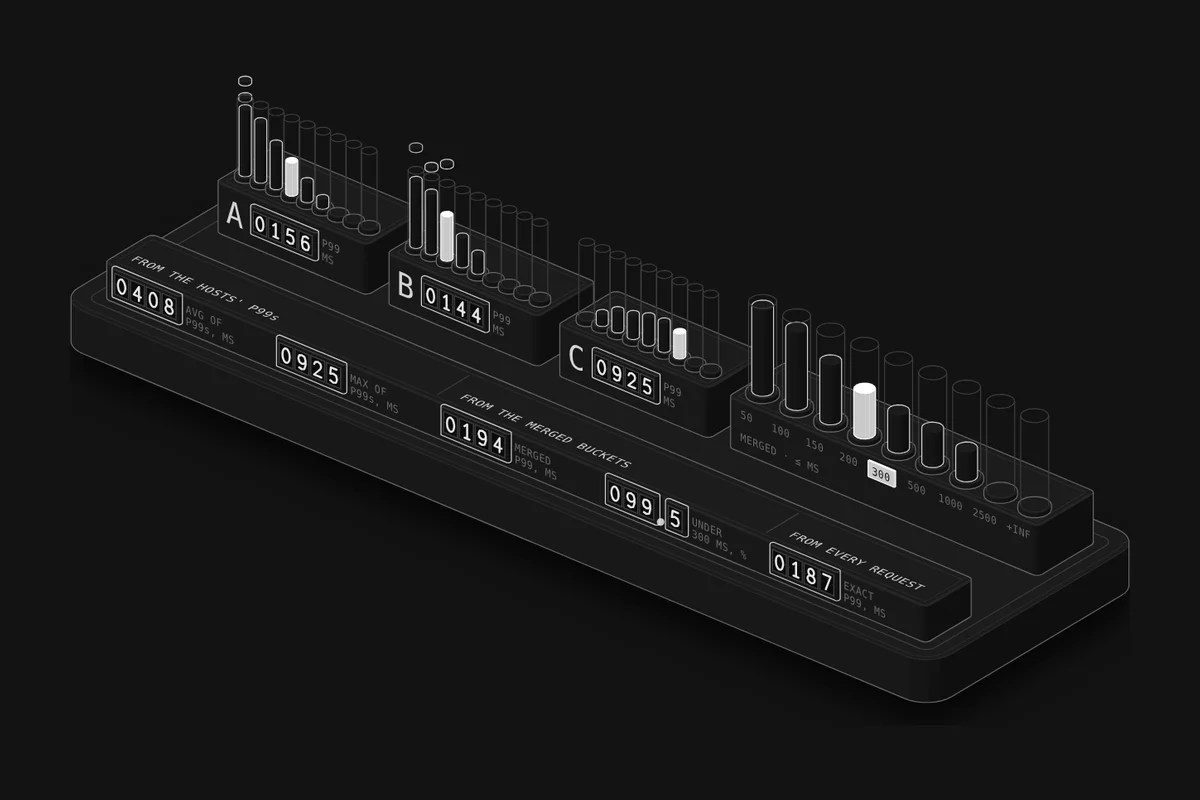
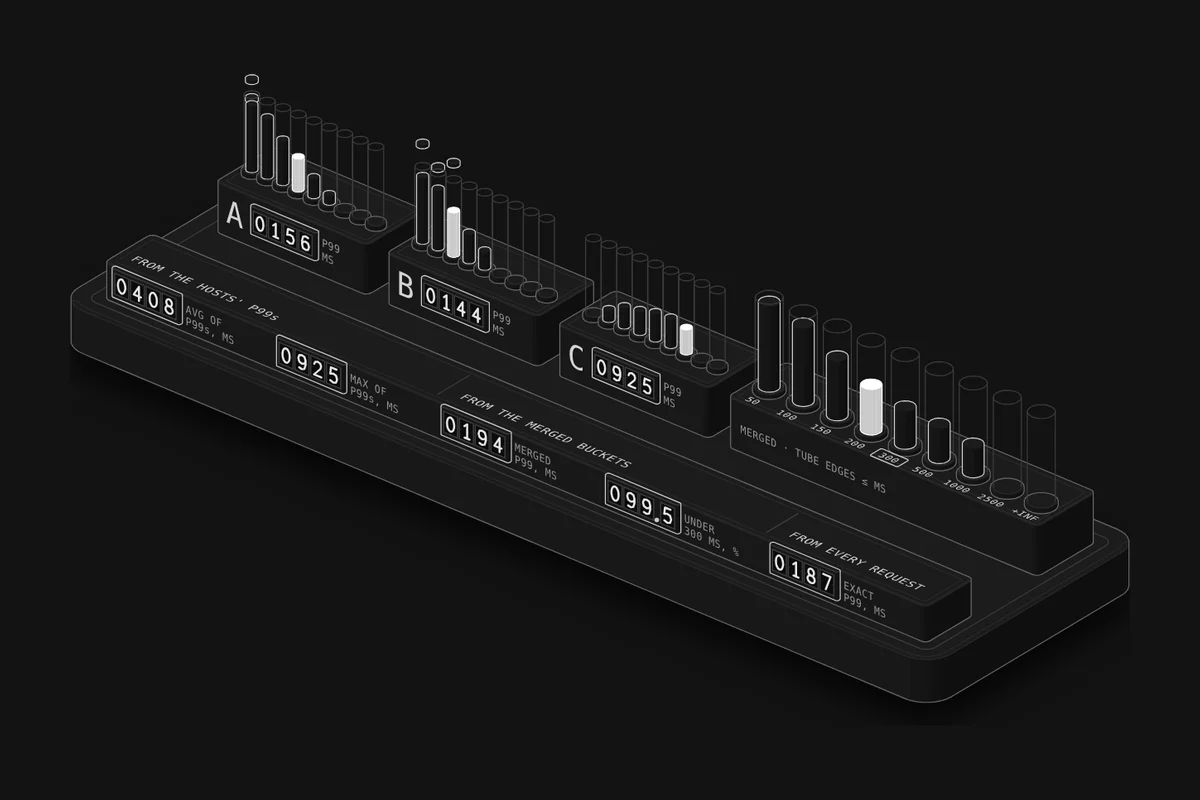
Lesson 74: fix review findings (bucket labels in front of their tubes, 300 ms edge framed not lit, at-least share for short buckets, one-housing decimal)
Claude-Session: https://claude.ai/code/session_01S5z2gCvevbrGU3fXgpGDmP

diff --git a/src/lessons/histograms/figure.ts b/src/lessons/histograms/figure.ts
@@ -28,7 +28,7 @@ export const RACKS = [
   { key: "C", x: -22, w: 48 },
   { key: "M", x: 32, w: 98 },
 ];
-export const TUBE_Y = FACE_Y - 6;               // tube centre line, near the front of each top, over its labels
+export const TUBE_Y = FACE_Y - 8.5;             // tube centre line: far enough back for each tube's label on the top in front of it
 export const TUBE = { host: { r: 1.9, h: 21, margin: 4.4 }, M: { r: 3.4, h: 25, margin: 6 } };
 const tubeSpec = (i) => (i === 3 ? TUBE.M : TUBE.host);
 // Tube centres along x for rack i and a bucket layout of n tubes.
@@ -115,20 +115,20 @@ function hostFace(i, first) {
   out.push(word(cx, FACE_Y, 8.4, "P99"), word(cx, FACE_Y, 4.6, "MS"));
   return out.join("");
 }
-// The merged rack's face: each tube's upper bound under it (per layout), and the rack's name.
+// The merged rack's top: each tube's upper bound printed in front of its own socket (per layout), the objective's
+// 300 ms edge framed; the rack's name on its face.
 function mergedFace() {
-  const r = RACKS[3], out = [];
+  const r = RACKS[3], out = [], y = FACE_Y - 1.3;
   for (const [layout, edges] of Object.entries(LAYOUTS)) {
     const xs = tubeXs(3, edges.length + 1);
     out.push(`<g data-labels="${layout}"${layout === "fine" ? "" : ' style="display:none"'}>`);
     [...edges.map(String), "+INF"].forEach((label, j) => {
-      const lit = edges[j] === SLO;
-      if (lit) out.push(litFill(S(k.slabOf({ x: xs[j] - 4.2, y: FACE_Y, w: 8.4, d: 0.6, r: 0.2 }, 8.6, 4.4, P, 2, 0.1), { tone: "hi", crease: "none", lit: true })));
-      out.push(word(xs[j], FACE_Y + (lit ? 0.6 : 0), 9.6, label, { anchor: "middle", tone: lit ? "on-lit" : "mid" }));
+      if (edges[j] === SLO) out.push(L(k.planOutline({ x: xs[j] - 4.4, y: y - 3.4, w: 8.8, d: 4.4, r: 0.5 }, CAB_H, P), { tone: "hi" }));
+      out.push(word(xs[j], y, CAB_H, label, { face: "top", anchor: "middle", tone: "hi" }));
     });
     out.push(`</g>`);
   }
-  out.push(word(r.x + 4, FACE_Y, 3.2, t("MERGED · ≤ MS", "COMBINADO · ≤ MS")));
+  out.push(word(r.x + 4, FACE_Y, 5.4, t("MERGED · TUBE EDGES ≤ MS", "COMBINADO · BORDES ≤ MS")));
   return out.join("");
 }
 
@@ -136,8 +136,8 @@ function mergedFace() {
 const DESK_WORDS = {
   avg: [t("AVG OF", "PROMEDIO"), t("P99s, MS", "DE P99, MS")],
   max: [t("MAX OF", "MÁXIMO"), t("P99s, MS", "DE P99, MS")],
-  est: [t("MERGED", "P99"), t("P99, MS", "COMBINADO")],
-  exact: [t("EXACT", "P99"), t("P99, MS", "EXACTO")],
+  est: [t("MERGED", "COMBINADO"), t("P99, MS", "P99, MS")],
+  exact: [t("EXACT", "EXACTO"), t("P99, MS", "P99, MS")],
   under: [t("UNDER", "BAJO"), t("300 MS, %", "300 MS, %")],
 };
 function desk(first) {
@@ -149,13 +149,16 @@ function desk(first) {
     const x = slotX(i) + c.dx;
     let end = x + span(c);
     if (key === "under") {
-      // whole percent on three wheels, a decimal point, then the tenths on their own wheel (as lesson 35's score wheels)
+      // whole percent on three wheels, a decimal point, then the tenths: one housing, the point inside it (as passwords)
       const tenths = Math.round(values.under), whole = { ...c, count: 3 };
-      out.push(digitCounter(P, { x, y: DESK_FACE, z: c.z, count: 3, w: c.w, h: c.h, gap: c.gap, pad: c.pad, name: "under", value: Math.floor(tenths / 10) }));
-      const dotX = x + span(whole) + c.pad + 1.2;
-      out.push(D([at([dotX, DESK_FACE + 0.1, c.z + 0.4])], { size: 2.2, tone: "hi" }));
-      out.push(digitCounter(P, { x: dotX + 1.2 + c.pad, y: DESK_FACE, z: c.z, count: 1, w: c.w, h: c.h, gap: c.gap, pad: c.pad, name: "under-f", value: tenths % 10 }));
-      end = dotX + 1.2 + c.pad + c.w;
+      const dotX = x + span(whole) + 1.1, fx = dotX + 1.1;
+      end = fx + c.w;
+      out.push(S(k.slabOf({ x: x - c.pad, y: DESK_FACE - 1.4, w: end - x + 2 * c.pad, d: 1.4, r: 0.5 }, c.z - c.pad, c.h + 2 * c.pad, P, 2), { tone: "hi", crease: "lo" }));
+      out.push(digitCounter(P, { x, y: DESK_FACE, z: c.z, count: 3, w: c.w, h: c.h, gap: c.gap, housing: false, name: "under", value: Math.floor(tenths / 10) }));
+      out.push(D([at([dotX, DESK_FACE + 0.1, c.z + 0.5])], { size: 1.3, tone: "hi" }));
+      out.push(digitCounter(P, { x: fx, y: DESK_FACE, z: c.z, count: 1, w: c.w, h: c.h, gap: c.gap, housing: false, name: "under-f", value: tenths % 10 }));
+      // "at least": with buckets that stop below 300 ms, the share under the top edge is all they can give
+      out.push(`<g data-atleast style="display:none">${word(x - c.pad - 1.2, DESK_FACE, c.z + 0.8, "≥", { size: 5, tone: "hi", anchor: "end" })}</g>`);
     } else out.push(digitCounter(P, { x, y: DESK_FACE, z: c.z, count: c.count, w: c.w, h: c.h, gap: c.gap, pad: c.pad, name: key, value: Math.min(9999, Math.round(values[key])) }));
     const cx = end + c.pad + 2;
     out.push(word(cx, DESK_FACE, 5.6, DESK_WORDS[key][0]), word(cx, DESK_FACE, 2.2, DESK_WORDS[key][1]));
@@ -187,8 +190,8 @@ export function buildFigure(first) {
     width: WIDTH,
     height: HEIGHT,
     label: t(
-      "A sorting room for request times on a base plate. Along the back stand three hosts, A, B and C, and a wider merged rack. Each host has a row of glass tubes on top, one per latency bucket, and finished requests drop into the tube for their time; the tube holding the host's 99th percentile is lit, and a counter on the host's front shows its p99 in milliseconds. Every scrape, a lit slip flies from each host to the merged rack, whose tubes hold the sum of all three, with each tube's upper bound printed under it. A desk in front shows five counters: the average and the largest of the three hosts' p99s, the p99 read off the merged tubes, the exact p99 of every request, and the share of requests under 300 milliseconds.",
-      "Una sala de clasificación de tiempos sobre una placa base. Al fondo hay tres hosts, A, B y C, y un estante combinado más ancho. Cada host tiene una fila de tubos de vidrio arriba, uno por bucket de latencia, y las solicitudes terminadas caen en el tubo de su tiempo; el tubo que contiene el percentil 99 del host está iluminado, y un contador en el frente del host muestra su p99 en milisegundos. En cada recolección, una ficha iluminada vuela de cada host al estante combinado, cuyos tubos tienen la suma de los tres, con el límite superior de cada tubo impreso debajo. Un escritorio adelante muestra cinco contadores: el promedio y el máximo de los p99 de los tres hosts, el p99 leído de los tubos combinados, el p99 exacto de todas las solicitudes y la proporción de solicitudes por debajo de 300 milisegundos.",
+      "A sorting room for request times on a base plate. Along the back stand three hosts, A, B and C, and a wider merged rack. Each host has a row of glass tubes on top, one per latency bucket, and finished requests drop into the tube for their time; the tube holding the host's 99th percentile is lit, and a counter on the host's front shows its p99 in milliseconds. Every scrape, a lit slip flies from each host to the merged rack, whose tubes hold the sum of all three, with each tube's upper bound printed on the top in front of it and the 300 millisecond edge framed. A desk in front shows five counters: the average and the largest of the three hosts' p99s, the p99 read off the merged tubes, the exact p99 of every request, and the share of requests under 300 milliseconds, with an at-least sign when the buckets stop below 300.",
+      "Una sala de clasificación de tiempos sobre una placa base. Al fondo hay tres hosts, A, B y C, y un estante combinado más ancho. Cada host tiene una fila de tubos de vidrio arriba, uno por bucket de latencia, y las solicitudes terminadas caen en el tubo de su tiempo; el tubo que contiene el percentil 99 del host está iluminado, y un contador en el frente del host muestra su p99 en milisegundos. En cada recolección, una ficha iluminada vuela de cada host al estante combinado, cuyos tubos tienen la suma de los tres, con el límite superior de cada tubo impreso arriba, delante de él, y el borde de 300 milisegundos enmarcado. Un escritorio adelante muestra cinco contadores: el promedio y el máximo de los p99 de los tres hosts, el p99 leído de los tubos combinados, el p99 exacto de todas las solicitudes y la proporción de solicitudes por debajo de 300 milisegundos, con un signo de «al menos» cuando los buckets terminan antes de 300.",
     ),
     body: [
       plate(),

diff --git a/src/lessons/histograms/page.ts b/src/lessons/histograms/page.ts
@@ -196,13 +196,13 @@ export default defineLesson({
     plate: {
       title: t("Sorting room", "Sala de clasificación"),
       keys: [
-        { mark: "lit", label: t("The tube holding each rack's p99; a scrape slip; the 300 ms edge", "El tubo que contiene el p99 de cada estante; una ficha de recolección; el borde de 300 ms") },
-        { mark: "raised", label: t("Glass tubes, one per bucket, the same buckets on every rack", "Tubos de vidrio, uno por bucket, los mismos buckets en cada estante") },
+        { mark: "lit", label: t("The tube holding each rack's p99; a scrape slip", "El tubo que contiene el p99 de cada estante; una ficha de recolección") },
+        { mark: "raised", label: t("Glass tubes, one per bucket, the same buckets on every rack; the 300 ms edge is framed", "Tubos de vidrio, uno por bucket, los mismos buckets en cada estante; el borde de 300 ms está enmarcado") },
         { mark: "flat", label: t("The desk: five numbers a dashboard could show", "El escritorio: cinco números que podría mostrar un tablero") },
       ],
       caption: t(
-        "Latencies are illustrative and round: a healthy host's requests take about " + MEDIAN + " ms (its p99 is near 145 ms); a slow host's take " + SLOW_X + " times as long. " + RATE + " requests a second reach the fleet, and every host keeps the last minute. One request in " + CHIP_EVERY + " drops into its tube as a chip. Tube heights are on a log scale shared by every rack, so a quiet host has short tubes and a 1% tail still shows. Each tube's upper edge is printed under the merged rack; a request goes into the first tube whose edge it doesn't exceed. The merged rack and the desk change when the slips land, every " + SCRAPE + " s here (real scrapes run every 15 to 60 s).",
-        "Las latencias son ilustrativas y redondas: las solicitudes de un host sano tardan unos " + MEDIAN + " ms (su p99 ronda los 145 ms); las de un host lento tardan " + SLOW_X + " veces más. A la flota llegan " + RATE + " solicitudes por segundo, y cada host guarda el último minuto. Una de cada " + CHIP_EVERY + " solicitudes cae en su tubo como un disco. La altura de los tubos está en escala logarítmica, la misma para todos los estantes, así que un host con poco tráfico tiene tubos bajos y una cola del 1% igual se ve. El borde superior de cada tubo está impreso bajo el estante combinado; una solicitud va al primer tubo cuyo borde no supera. El estante combinado y el escritorio cambian cuando llegan las fichas, cada " + SCRAPE + " s aquí (en la realidad se recolecta cada 15 a 60 s).",
+        "Latencies are illustrative and round: a healthy host's requests take about " + MEDIAN + " ms (its p99 is near 145 ms); a slow host's take " + SLOW_X + " times as long. " + RATE + " requests a second reach the fleet, and every host keeps the last minute. One request in " + CHIP_EVERY + " drops into its tube as a chip. Tube heights are on a log scale shared by every rack, so a quiet host has short tubes and a 1% tail still shows. Each tube's upper edge is printed in front of it on the merged rack; a request goes into the first tube whose edge it doesn't exceed. With buckets ending at 250 ms, the desk can only say at least (≥) how many are under 300 ms. The merged rack and the desk change when the slips land, every " + SCRAPE + " s here (real scrapes run every 15 to 60 s).",
+        "Las latencias son ilustrativas y redondas: las solicitudes de un host sano tardan unos " + MEDIAN + " ms (su p99 ronda los 145 ms); las de un host lento tardan " + SLOW_X + " veces más. A la flota llegan " + RATE + " solicitudes por segundo, y cada host guarda el último minuto. Una de cada " + CHIP_EVERY + " solicitudes cae en su tubo como un disco. La altura de los tubos está en escala logarítmica, la misma para todos los estantes, así que un host con poco tráfico tiene tubos bajos y una cola del 1% igual se ve. El borde superior de cada tubo está impreso delante de él en el estante combinado; una solicitud va al primer tubo cuyo borde no supera. Con buckets hasta 250 ms, el escritorio solo puede decir cuántas, como mínimo (≥), quedan bajo 300 ms. El estante combinado y el escritorio cambian cuando llegan las fichas, cada " + SCRAPE + " s aquí (en la realidad se recolecta cada 15 a 60 s).",
       ),
       stage: { "data-sorting-room": "" },
       label: t("Simulation of three hosts' latency histograms and how they merge. Space pauses or resumes.", "Simulación de los histogramas de latencia de tres hosts y de cómo se combinan. Espacio pausa o reanuda."),

diff --git a/src/lessons/histograms/live.ts b/src/lessons/histograms/live.ts
@@ -17,7 +17,7 @@ export default function mount({ P, G, CHIP, SLIP, SCRAPE, CHIP_EVERY }, root) {
   const say = (text) => root.figure.say(text);
   const stat = (key, value) => root.stat(key, value);
   const NS = "http://www.w3.org/2000/svg";
-  const chipsLayer = q('[data-layer="chips"]'), slipsLayer = q('[data-layer="slips"]');
+  const chipsLayer = q('[data-layer="chips"]'), slipsLayer = q('[data-layer="slips"]'), atLeastMark = q("[data-atleast]");
   const hostCounters = [0, 1, 2].map((i) => WB.counter(svg, "p99-" + i, P));
   const desk = Object.fromEntries(["avg", "max", "est", "exact", "under", "under-f"].map((n) => [n, WB.counter(svg, n, P)]));
   const NREF = RATE * WINDOW, FLIGHT = 1.6, FALL = 0.55, MAX_CHIPS = 36;
@@ -84,7 +84,10 @@ export default function mount({ P, G, CHIP, SLIP, SCRAPE, CHIP_EVERY }, root) {
     const tenths = Math.round(1000 * s.underBuckets);
     desk.under.setClamped(Math.floor(tenths / 10)); desk["under-f"].set(tenths % 10);
     stat("avg", ms(s.avg)); stat("max", ms(s.max)); stat("est", ms(s.est)); stat("exact", ms(s.exact));
-    stat("under", pc(s.underBuckets)); stat("underx", pc(s.underExact));
+    // buckets that stop below 300 ms can only say "at least the share under their top edge"
+    const atLeast = edges()[edges().length - 1] < SLO;
+    atLeastMark.style.display = atLeast ? "" : "none";
+    stat("under", (atLeast ? "≥ " : "") + pc(s.underBuckets)); stat("underx", pc(s.underExact));
   }
 
   // ---------- chips: one request in CHIP_EVERY drops into its tube ----------
